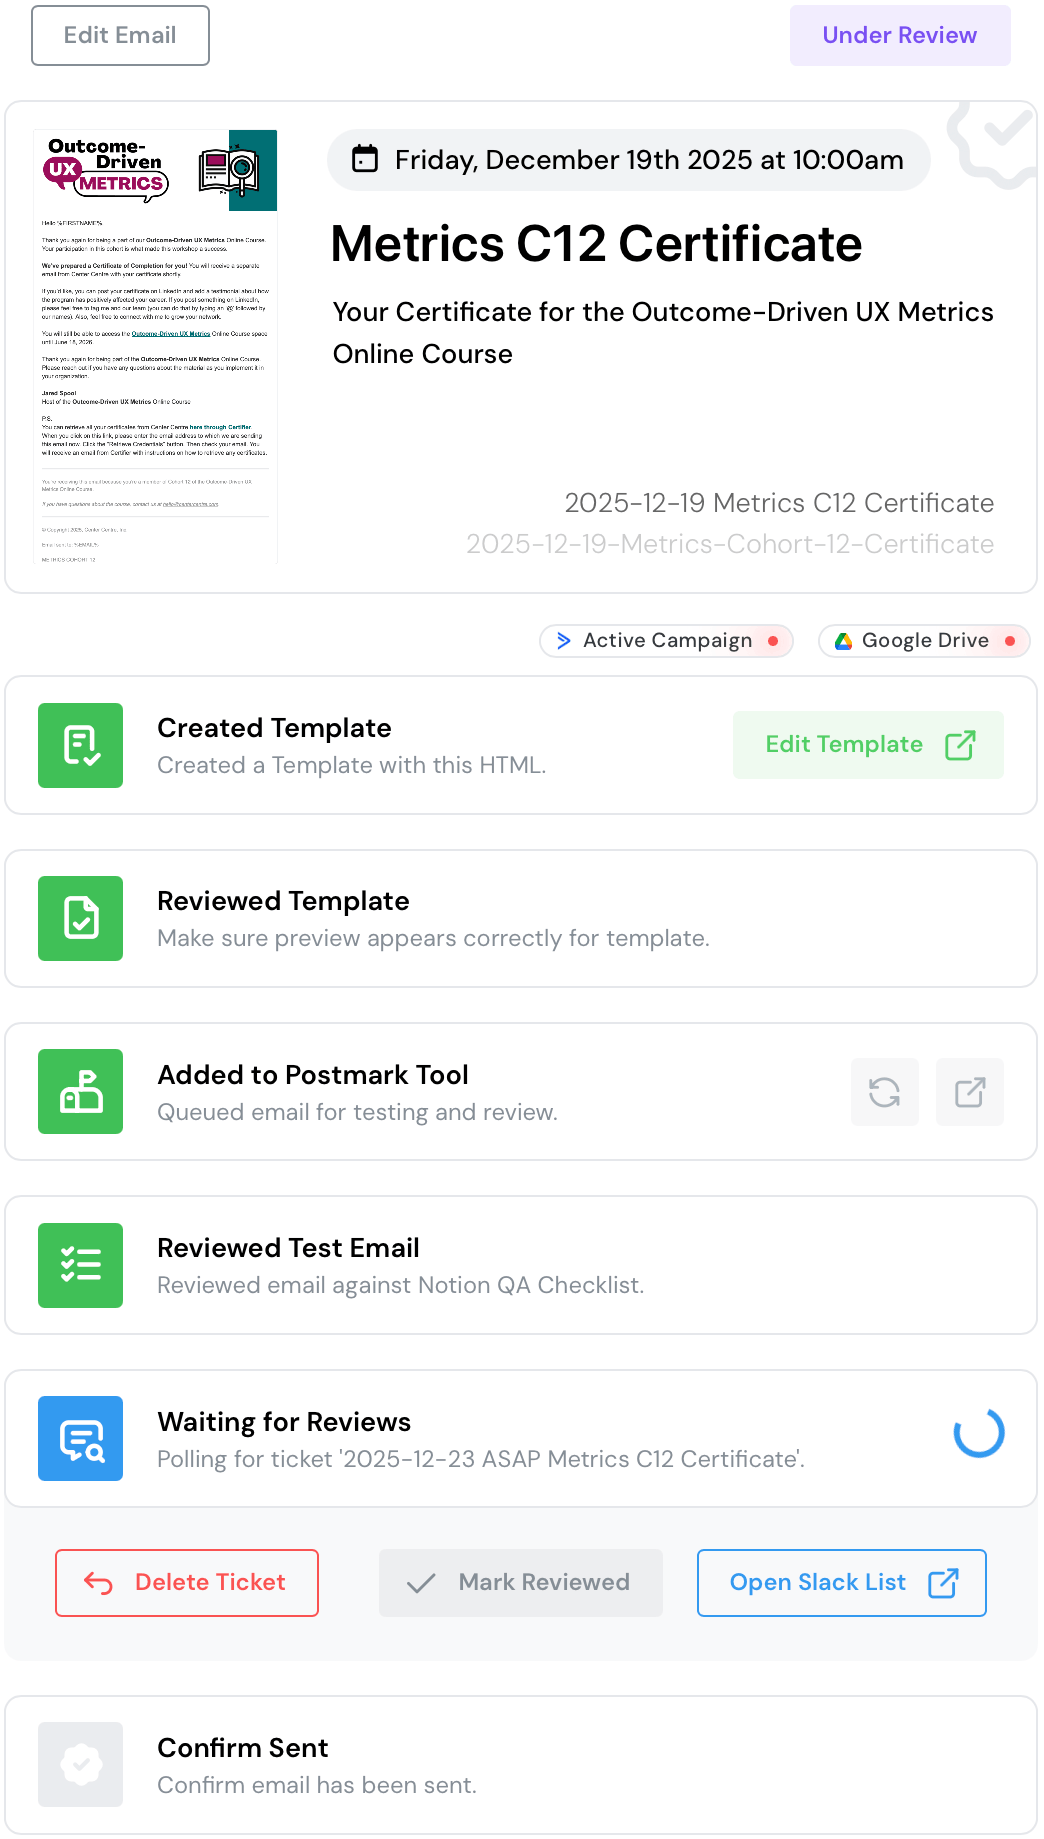
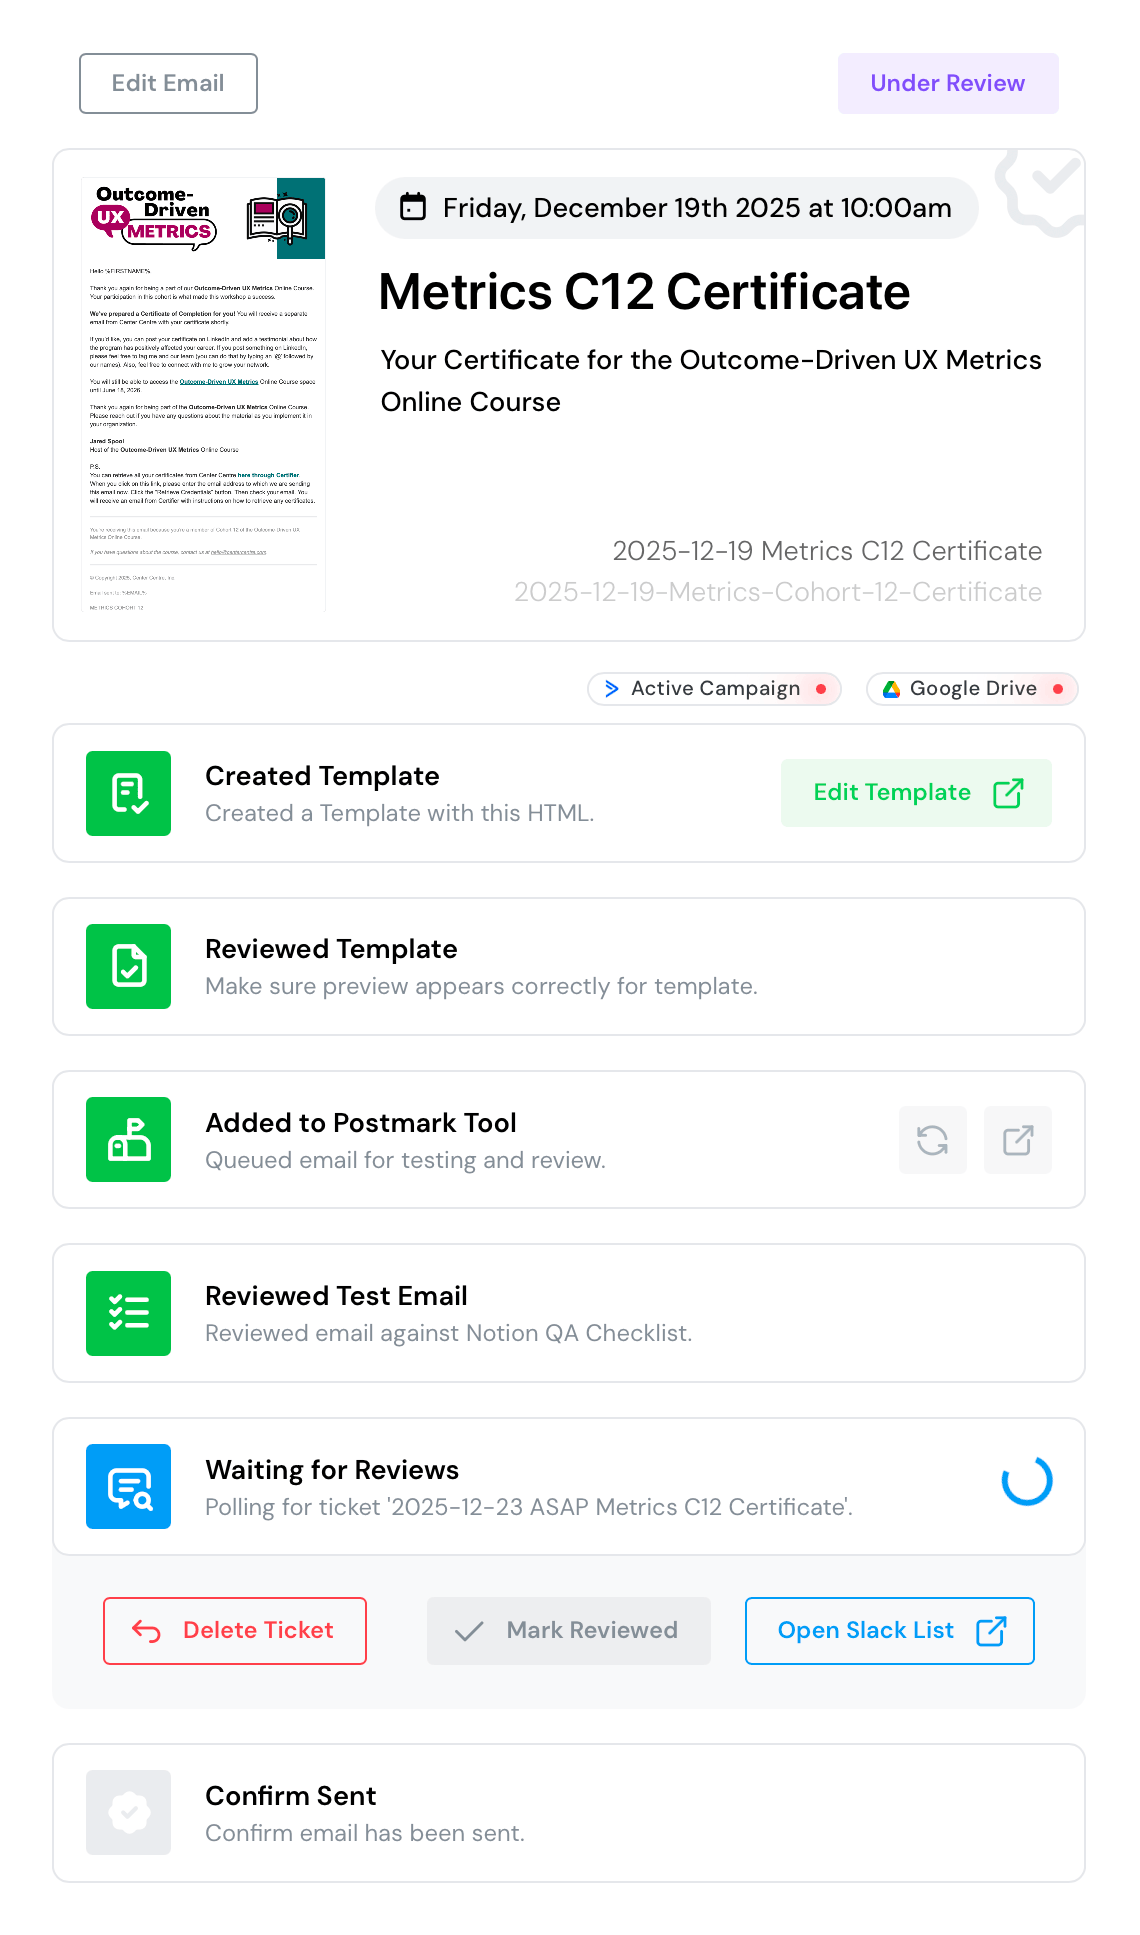
Apply remaining portfolio updates

diff --git a/components/content/landingHeader.tsx b/components/content/landingHeader.tsx
@@ -2,29 +2,46 @@
 
 import { motion } from "framer-motion";
 import type { ReactNode } from "react";
-import { useEffect, useRef, useState } from "react";
+import { useEffect, useLayoutEffect, useRef, useState } from "react";
 import WritingText from "../media/textFadeIn";
 
 function AnimatedWidthSpan({ children }: { children: ReactNode }) {
     const innerRef = useRef<HTMLSpanElement>(null);
     const [width, setWidth] = useState<number | undefined>(undefined);
+    const [animateWidth, setAnimateWidth] = useState(false);
 
-    useEffect(() => {
+    useLayoutEffect(() => {
         if (!innerRef.current) return;
-        setWidth(innerRef.current.getBoundingClientRect().width);
+
+        const updateWidth = () => {
+            if (!innerRef.current) return;
+            setWidth(innerRef.current.getBoundingClientRect().width);
+        };
+
+        updateWidth();
+
+        const frameId = window.requestAnimationFrame(() => {
+            setAnimateWidth(true);
+        });
+
         const observer = new ResizeObserver((entries) => {
             const entry = entries[0];
             if (entry) setWidth(entry.contentRect.width);
         });
         observer.observe(innerRef.current);
-        return () => observer.disconnect();
+
+        return () => {
+            window.cancelAnimationFrame(frameId);
+            observer.disconnect();
+        };
     }, []);
 
     return (
         <motion.span
             style={{ display: "inline-block", overflow: "visible" }}
+            initial={false}
             animate={{ width: width !== undefined ? width : "auto" }}
-            transition={{ type: "spring", bounce: 0, duration: 0.6 }}
+            transition={animateWidth ? { type: "spring", bounce: 0, duration: 0.6 } : { duration: 0 }}
         >
             <span ref={innerRef} style={{ display: "inline-block", whiteSpace: "nowrap" }}>
                 {children}
@@ -101,7 +118,7 @@ export default function LandingHeader({
                 </p>
             </div>
 
-            <div className={"relative mx-2 px-3 md:-mx-4 " + panelTransitionClass + " " + (subPage === 'about' ? 'mt-5 max-h-[46rem] md:max-h-96 opacity-100' : 'mt-0 max-h-0 opacity-100 overflow-hidden')}>
+            <div className={"relative mx-0 px-3 md:-mx-4 " + panelTransitionClass + " " + (subPage === 'about' ? 'mt-5 max-h-[46rem] md:max-h-96 opacity-100' : 'mt-0 max-h-0 opacity-100 overflow-hidden')}>
                 <div className={"pointer-events-none absolute inset-0 -z-10 rounded-xl bg-black/30 mix-blend-overlay inset-shadow-sm " + panelOpacityTransitionClass + " " + (subPage === 'about' ? 'opacity-100 delay-75' : 'opacity-0')} />
                 <div className={"pointer-events-none absolute inset-0 -z-5 rounded-xl inset-shadow-sm " + panelOpacityTransitionClass + " " + (subPage === 'about' ? 'opacity-50 delay-75' : 'opacity-0')} />
 

diff --git a/components/media/bgVideo.tsx b/components/media/bgVideo.tsx
@@ -201,9 +201,15 @@ function BackgroundVideoPlaylist({
 
             video.muted = true
             video.defaultMuted = true
+            video.autoplay = shouldBeVisible && slotIndex === activeSlot
             video.playsInline = true
             video.preload = "auto"
             video.setAttribute("muted", "")
+            if (video.autoplay) {
+                video.setAttribute("autoplay", "")
+            } else {
+                video.removeAttribute("autoplay")
+            }
             video.setAttribute("playsinline", "")
             video.setAttribute("webkit-playsinline", "")
 
@@ -230,6 +236,7 @@ function BackgroundVideoPlaylist({
 
             const onLoadedData = () => {
                 markReady()
+                void tryPlay()
             }
 
             const onLoadedMetadata = () => {
@@ -295,7 +302,7 @@ function BackgroundVideoPlaylist({
                 window.clearTimeout(pauseTimeoutId)
             }
         }
-    }, [activeSlot, crossFadeMs, shouldBeVisible, videoRefs])
+    }, [activeSlot, crossFadeMs, readySlots, shouldBeVisible, videoRefs])
 
     const switchToPreparedVideo = React.useCallback(() => {
         if (!preparedVideo) return false
@@ -366,6 +373,7 @@ function BackgroundVideoPlaylist({
                             key={`${slotIndex}-${source}`}
                             ref={videoRefs[slotIndex]}
                             className="absolute inset-0 h-full w-full object-cover"
+                            autoPlay={isActiveSlot && shouldBeVisible}
                             muted
                             onEnded={isActiveSlot ? handleEnded : undefined}
                             onError={isActiveSlot ? handleError : undefined}

diff --git a/content/cases.tsx b/content/cases.tsx
@@ -34,12 +34,12 @@ export const caseStudies: readonly CaseStudy[] = [
 
         primaryField: "Fullstack",
         fieldTags: ["Backend", "Frontend Integration"],
-        fieldDescription: "Fullstack development + product engineering",
+        fieldDescription: "Web developer + email production",
 
         toolTags: ["Framework - React, Next.js", "Language - TypeScript", "Styles - TailwindCSS", "Components - MantineUI", "Storage - Airtable", "Integrations - Google Drive, ActiveCampaign, Postmark, Notion, Slack"],
 
         projectAffiliation: "Center Centre",
-        affiliationDescription: "Center Centre, 2025",
+        affiliationDescription: "Web Developer, Center Centre, 2025",
 
         coverImageFilename: "poster.png",
         coverImageAlt: "",
@@ -57,12 +57,12 @@ export const caseStudies: readonly CaseStudy[] = [
 
         primaryField: "Backend",
         fieldTags: ["Backend", "Frontend"],
-        fieldDescription: "Frontend + backend integration",
+        fieldDescription: "Web developer + backend integration",
 
         toolTags: ["Tools - React, Vite, Airtable, Next.js", "Technology - TypeScript, RESTful, Linux"],
 
         projectAffiliation: "Center Centre",
-        affiliationDescription: "Center Centre, 2025",
+        affiliationDescription: "Web Developer, Center Centre, 2025",
 
         coverImageFilename: "poster.png",
         coverImageAlt: "",

diff --git a/content/cache/content.tsx b/content/cache/content.tsx
@@ -1,4 +1,4 @@
-export default `In 2025, I was a web dev fellow at Center Centre, a UX-focused professional education company, where I owned development and maintenance of their suite of websites. As an online-only organization, Center Centre's websites are an essential public presence, the primary source of information on their courses, and the point-of-sale for enrolling students.
+export default `In 2025, I was a web developer at Center Centre, a UX-focused professional education company, where I owned development and maintenance of their suite of websites. As an online-only organization, Center Centre's websites are an essential public presence, the primary source of information on their courses, and the point-of-sale for enrolling students.
 
 Each of Center Centre’s courses has a website with topics, <abbr title='The courses are offered on a rolling basis—usually once a month—and students select an upcoming cohort to enroll in. When a cohort starts, students participate in a schedule of online sesssions alongside other members of their cohort.'>upcoming cohorts</abbr>, and enrollment pages. When I arrived, these sites had just been migrated from vanilla HTML/CSS/JS to a new React/Vite stack. 
 

diff --git a/components/content/homePageClient.tsx b/components/content/homePageClient.tsx
@@ -97,7 +97,7 @@ export default function HomePageClient({
 
                 <main className="relative w-full mt-5">
                     <PosterGlyphCanvasHost>
-                        <p className="opacity-60 sans small mt-20! mb-0! flex items-baseline overflow-hidden"><span className="shrink-0">Web Dev Fellow @ Center Centre&nbsp;&nbsp;</span><span className="opacity-50 ml-1 flex-1 overflow-hidden whitespace-nowrap">{"-".repeat(400)}</span></p>
+                        <p className="opacity-60 sans small mt-20! mb-0! flex items-baseline overflow-hidden"><span className="shrink-0">Web &amp; Email Dev @ Center Centre&nbsp;&nbsp;</span><span className="opacity-50 ml-1 flex-1 overflow-hidden whitespace-nowrap">{"-".repeat(400)}</span></p>
 
                         <div className="flex flex-col sm:flex-row items-center sm:items-start gap-10 sm:gap-8 mt-10 sm:-mx-[2px]">
                             {centerCentreCaseStudies.map((caseStudy) => (

diff --git a/content/emails/content.tsx b/content/emails/content.tsx
@@ -1,4 +1,4 @@
-export default `In 2025, I was a Web Development Fellow at Center Centre, where I was in charge of Center Centre’s emails. 
+export default `In 2025, I was a web developer at Center Centre, where I was in charge of Center Centre’s emails. 
 
 Emails are their primary form of communication: a critical part of running courses, events, and marketing. The timeliness and accuracy of these emails was essential for event turnouts, campaign effectiveness, and—over time—built trust with our students and clients. 
 

diff --git a/app/globals.css b/app/globals.css
@@ -26,7 +26,7 @@
 
 @media (max-width: 768px) {
   :root {
-    --page-x-margin: 40px;
+    --page-x-margin: 48px;
   }
 }
 
